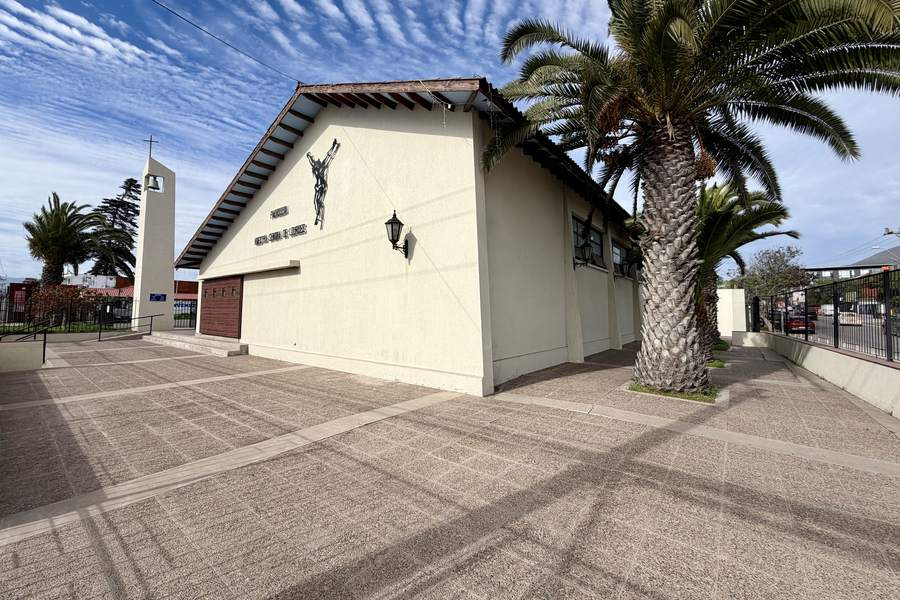
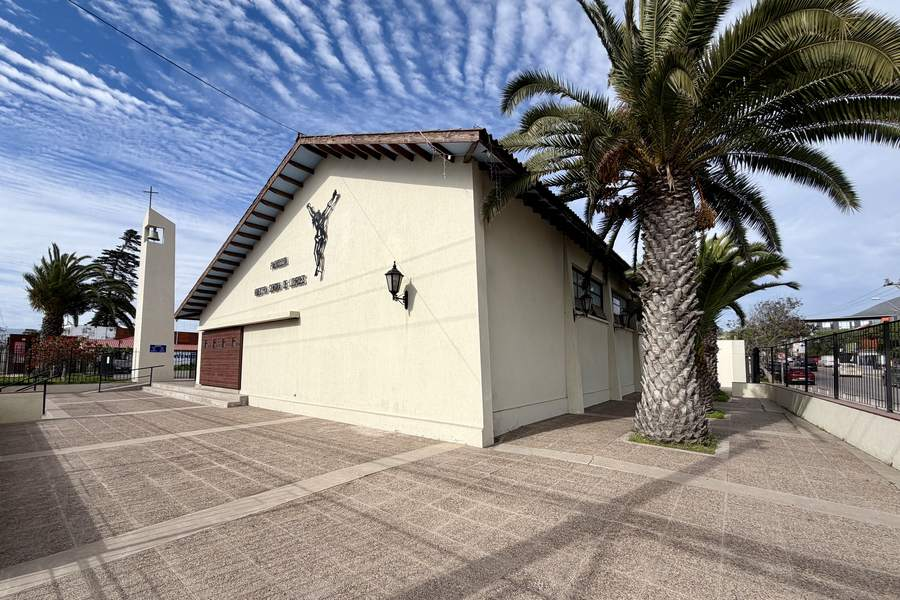
Velo blanco sobre las fotos, más cielo en la portada y dos capillas
EL VELO
Las dos bandas con fotografía —la portada y la de la Patrona— llevaban encima un
degradado azul oscuro que casi tapaba la foto. Ahora es un lavado blanco y la
fotografía se ve.

Eso arrastra el resto: sobre un velo claro el texto blanco desaparece, así que
los títulos pasan a --azul, las bajadas a --azul-medio, y los botones dejan de
ser blanco y contorno-blanco. Se agrega .boton--linea-azul, que es el contorno
del mismo tamaño que .boton pero en azul.

LA PORTADA
Menos piso y más cielo: la foto se recortó más arriba en el archivo y además se
subió el encuadre en el CSS, de 52% a 24%.

CONTRASTE
Al medir el resultado apareció un problema que venía de antes: .boton era
celeste con texto blanco de 14px, o sea 2,89:1, cuando el mínimo AA que pidió la
parroquia es 4,5:1. Pasa a azul medio y queda en 6,6:1. Es el color que ya tenía
al pasar el cursor encima, así que el cambio es pequeño, pero se ve en todos los
botones del sitio: si no convence, se revierte en una línea.

Los textos del hero quedan en 9,7:1 el título y 5,6:1 el horario, medidos contra
la zona más oscura de la foto.

DOS CAPILLAS MÁS
Santiago Apóstol y Jesús de la Misericordia, en Capillas y en Horarios. La de la
Misericordia hubo que reencuadrarla: el primer recorte le cortaba el techo del
campanario y la cruz del frontis.

Quedan 8 marcadores de foto. Verificado sin desbordes de 320 a 1280px.

diff --git a/sitio/assets/css/sitio.css b/sitio/assets/css/sitio.css
@@ -326,20 +326,26 @@ strong, .fuerte { font-weight: 600; }
    -------------------------------------------------------------------------- */
 .boton {
   display: inline-block;
-  background: var(--celeste);
+  /* Azul medio y no celeste: con celeste, el texto blanco de 14px quedaba en
+     2,89:1 de contraste, bajo el mínimo AA de 4,5:1 que pidió la parroquia.
+     Con azul medio sube a 6,1:1, y era el color que ya tenía al pasar encima. */
+  background: var(--azul-medio);
   color: #fff;
   font: 700 14px/1 var(--fuente);
   letter-spacing: .1em;
   padding: 20px 28px;
   text-transform: uppercase;
   text-align: center;
-  border: 1px solid var(--celeste);
+  border: 1px solid var(--azul-medio);
 }
-.boton:hover { background: var(--azul-medio); border-color: var(--azul-medio); color: #fff; }
+.boton:hover { background: var(--azul); border-color: var(--azul); color: #fff; }
 
 .boton--blanco { background: #fff; color: var(--azul-medio); border-color: #fff; }
 .boton--blanco:hover { background: var(--celeste-claro); border-color: var(--celeste-claro); color: var(--azul-medio); }
 
+/* Contorno azul, del mismo tamaño que .boton: para el velo claro sobre foto. */
+.boton--linea-azul { background: transparent; color: var(--azul-medio); border-color: var(--celeste); }
+.boton--linea-azul:hover { background: var(--celeste-claro); border-color: var(--azul-medio); color: var(--azul-medio); }
 .boton--linea-blanca { background: transparent; color: #fff; border: 1px solid rgba(255, 255, 255, .8); font-weight: 600; }
 .boton--linea-blanca:hover { background: rgba(255, 255, 255, .14); border-color: #fff; color: #fff; }
 
@@ -441,7 +447,7 @@ img.ficha__foto { width: 100%; height: 100%; object-fit: cover; }
 .hero {
   position: relative;
   min-height: 530px;
-  background: url("../img/portada-parroquia.jpg") center 52% / cover no-repeat;
+  background: url("../img/portada-parroquia.jpg") center 24% / cover no-repeat;
   display: flex;
   align-items: center;
   padding: 56px var(--canaleta);
@@ -449,12 +455,12 @@ img.ficha__foto { width: 100%; height: 100%; object-fit: cover; }
 .hero__velo {
   position: absolute;
   inset: 0;
-  background: linear-gradient(90deg, rgba(27, 58, 97, .84) 0%, rgba(44, 95, 146, .62) 46%, rgba(110, 156, 201, .12) 100%);
+  background: linear-gradient(90deg, rgba(255, 255, 255, .92) 0%, rgba(255, 255, 255, .78) 46%, rgba(255, 255, 255, .38) 100%);
 }
 .hero__contenido { position: relative; max-width: 700px; }
-.hero__titulo { font: 200 58px/1.06 var(--fuente); color: #fff; letter-spacing: -.005em; margin-bottom: 24px; }
+.hero__titulo { font: 200 58px/1.06 var(--fuente); color: var(--azul); letter-spacing: -.005em; margin-bottom: 24px; }
 .hero__titulo strong { font-weight: 600; }
-.hero__horario { font: 300 23px/1.75 var(--fuente); color: #EDF4FA; margin-bottom: 32px; }
+.hero__horario { font: 300 23px/1.75 var(--fuente); color: var(--azul-medio); margin-bottom: 32px; }
 .hero__horario strong { font-weight: 600; }
 .hero__botones { display: flex; gap: 14px; flex-wrap: wrap; }
 
@@ -483,11 +489,11 @@ img.ficha__foto { width: 100%; height: 100%; object-fit: cover; }
   text-align: center;
   padding: 64px var(--canaleta);
 }
-.banda-patrona__velo { position: absolute; inset: 0; background: linear-gradient(180deg, rgba(27, 58, 97, .78), rgba(44, 95, 146, .68)); }
+.banda-patrona__velo { position: absolute; inset: 0; background: linear-gradient(180deg, rgba(255, 255, 255, .88), rgba(255, 255, 255, .80)); }
 .banda-patrona__contenido { position: relative; max-width: 660px; }
-.banda-patrona h2 { font: 200 42px/1.15 var(--fuente); color: #fff; margin-bottom: 16px; }
+.banda-patrona h2 { font: 200 42px/1.15 var(--fuente); color: var(--azul); margin-bottom: 16px; }
 .banda-patrona h2 strong { font-weight: 600; }
-.banda-patrona p { font: 300 20px/1.6 var(--fuente); color: #E4EEF7; margin-bottom: 26px; }
+.banda-patrona p { font: 300 20px/1.6 var(--fuente); color: var(--azul-medio); margin-bottom: 26px; }
 
 /* Rejilla de avisos. Con dos columnas, cada ficha es foto de 200px + texto,
    así que necesita ancho: bajo 1180px pasa a una sola columna. */
@@ -969,7 +975,7 @@ img.capilla__foto { width: 100%; height: min(300px, 58vw); object-fit: cover; }
      un tercio. */
   .hero { min-height: 0; padding: 52px var(--canaleta);
     background-image: url("../img/portada-parroquia-movil.jpg"); }
-  .hero__velo { background: linear-gradient(180deg, rgba(27, 58, 97, .88) 0%, rgba(44, 95, 146, .78) 100%); }
+  .hero__velo { background: linear-gradient(180deg, rgba(255, 255, 255, .93) 0%, rgba(255, 255, 255, .84) 100%); }
   .hero__titulo { font-size: 38px; }
   .hero__horario { font-size: 20px; }
   .hero__botones .boton { width: 100%; }

diff --git a/sitio/capillas.html b/sitio/capillas.html
@@ -231,7 +231,7 @@
       </article>
 
       <article class="capilla capilla--invertida" id="cap-misericordia">
-        <div class="foto capilla__foto" style="--alto:300px" aria-hidden="true">FOTO PRINCIPAL<br>Capilla Jesús de la Misericordia<br>460×300</div>
+        <img class="capilla__foto" src="assets/img/capilla-misericordia.jpg" alt="Fachada de ladrillo de la Capilla Jesús de la Misericordia, con su torre campanario y una cruz" width="920" height="600" loading="lazy">
         <div>
           <h3 class="titulo-ficha" style="margin-bottom:12px">Capilla Jesús de la Misericordia</h3>
           <p class="capilla__descripcion">La capilla pertenece a la Fundación Antonio Farré Azorín, una obra de acogida para mujeres mayores nacida del sueño de don Antonio y concretada por su esposa, Amanda Gómez. Este espacio de oración está al servicio de la Parroquia Nuestra Señora de Lourdes.</p>
@@ -277,7 +277,7 @@
       </article>
 
       <article class="capilla capilla--invertida" id="cap-santiago">
-        <div class="foto capilla__foto" style="--alto:300px" aria-hidden="true">FOTO PRINCIPAL<br>Capilla Santiago Apóstol<br>460×300</div>
+        <img class="capilla__foto" src="assets/img/capilla-santiago.jpg" alt="Frontis blanco de madera de la Capilla Santiago Apóstol, con su campanario y las puertas abiertas" width="920" height="600" loading="lazy">
         <div>
           <h3 class="titulo-ficha" style="margin-bottom:12px">Capilla Santiago Apóstol</h3>
           <p class="capilla__descripcion">Los primeros pasos de esta comunidad se remontan a 1976, cuando se instaló una cruz en el terreno donde posteriormente se levantaría la capilla. Su construcción comenzó en 1980, dando forma a un lugar de encuentro para la comunidad.</p>

diff --git a/sitio/index.html b/sitio/index.html
@@ -158,8 +158,8 @@
         <h1 class="hero__titulo">Celebración<br><strong>Santa Misa</strong></h1>
         <p class="hero__horario">Martes a sábado · <strong>19:00 hrs.</strong><br>Domingos · <strong>11:00 hrs.</strong></p>
         <div class="hero__botones">
-          <a class="boton boton--blanco" href="horarios.html">Ver todos los horarios</a>
-          <a class="boton boton--linea-blanca" href="https://www.google.com/maps/search/?api=1&amp;query=Av.+Balmaceda+1596%2C+La+Serena%2C+Chile" target="_blank" rel="noopener">Cómo llegar</a>
+          <a class="boton" href="horarios.html">Ver todos los horarios</a>
+          <a class="boton boton--linea-azul" href="https://www.google.com/maps/search/?api=1&amp;query=Av.+Balmaceda+1596%2C+La+Serena%2C+Chile" target="_blank" rel="noopener">Cómo llegar</a>
         </div>
       </div>
     </section>
@@ -216,10 +216,10 @@
     <section class="banda-patrona">
       <div class="banda-patrona__velo" aria-hidden="true"></div>
       <div class="banda-patrona__contenido">
-        <p class="antetitulo antetitulo--claro" style="margin-bottom:16px">Nuestra patrona</p>
+        <p class="antetitulo" style="margin-bottom:16px;color:var(--azul-medio)">Nuestra patrona</p>
         <h2>Nuestra Señora de <strong>Lourdes</strong></h2>
         <p>Su historia y su significado para nuestra comunidad parroquial.</p>
-        <a class="boton boton--linea-blanca boton--pequeno" href="patrona.html">Conoce su historia</a>
+        <a class="boton boton--linea-azul boton--pequeno" href="patrona.html">Conoce su historia</a>
       </div>
     </section>
 

diff --git a/sitio/horarios.html b/sitio/horarios.html
@@ -244,7 +244,7 @@
         </article>
 
         <article class="templo">
-          <div class="foto templo__foto" aria-hidden="true">FOTO · Capilla Jesús de la Misericordia<br>460×300</div>
+          <img class="templo__foto" src="assets/img/capilla-misericordia.jpg" alt="Fachada de ladrillo con torre campanario y una cruz" width="920" height="600" loading="lazy">
           <div class="templo__cuerpo">
             <h3 class="templo__nombre">Capilla Jesús de la Misericordia</h3>
             <p class="templo__direccion">Av. Guillermo Ulriksen 1771, La Serena</p>
@@ -282,7 +282,7 @@
         </article>
 
         <article class="templo">
-          <div class="foto templo__foto" aria-hidden="true">FOTO · Capilla Santiago Apóstol<br>460×300</div>
+          <img class="templo__foto" src="assets/img/capilla-santiago.jpg" alt="Frontis blanco de madera con campanario" width="920" height="600" loading="lazy">
           <div class="templo__cuerpo">
             <h3 class="templo__nombre">Capilla Santiago Apóstol</h3>
             <p class="templo__direccion">Aguirre Valín con 1 de mayo, La Serena</p>

diff --git a/CLAUDE.md b/CLAUDE.md
@@ -256,6 +256,12 @@ Exportar al doble de la medida indicada (retina) y comprimir.
 navegador los usa como alto y el `aspect-ratio` del CSS no se aplica. Hay que
 agregar `height: auto` en la regla. Pasó en el par de la historia y en la gruta.
 
+Sobre las dos fotos de fondo va un **velo blanco**, no azul: la parroquia lo
+pidió así para que la fotografía se vea. Por eso el texto de esas dos bandas va
+en `--azul` y `--azul-medio`, y sus botones son el relleno normal y
+`.boton--linea-azul`. Si alguna vez se vuelve al velo oscuro, hay que devolver
+también los textos a blanco y los botones a `--blanco` y `--linea-blanca`.
+
 El hero de `index.html` y la banda de la Patrona son **fondo de sección**, en
 `.hero` y `.banda-patrona` de `sitio.css`. Van a 1600px de ancho y con calidad
 68, porque encima llevan un velo oscuro que tapa el detalle fino, y **tienen una
@@ -266,6 +272,13 @@ se agrega otro fondo de sección, conviene repetir ese par.
 ## Accesibilidad (requisito del cliente, no opcional)
 
 - Cuerpo mínimo **17px**. Contraste AA (4.5:1) en todo texto pequeño.
+- **El botón `.boton` va en `--azul-medio`, no en `--celeste`.** Con celeste, su
+  texto blanco de 14px quedaba en 2,89:1, muy por debajo de AA; en azul medio
+  sube a 6,6:1. Cualquier color de fondo nuevo para texto blanco hay que
+  medirlo antes.
+- Queda pendiente el mismo problema en `.antetitulo`, que usa `--celeste` sobre
+  blanco (2,7:1). Es el rótulo pequeño en mayúsculas que encabeza las secciones;
+  cambiarlo toca todas las páginas, así que está a la espera de decisión.
 - Áreas táctiles de **44px o más** en móvil (hoy el menú usa 56px).
 - Jerarquía correcta de encabezados, `alt` en toda imagen informativa,
   `<label>` visible en todo campo de formulario.
